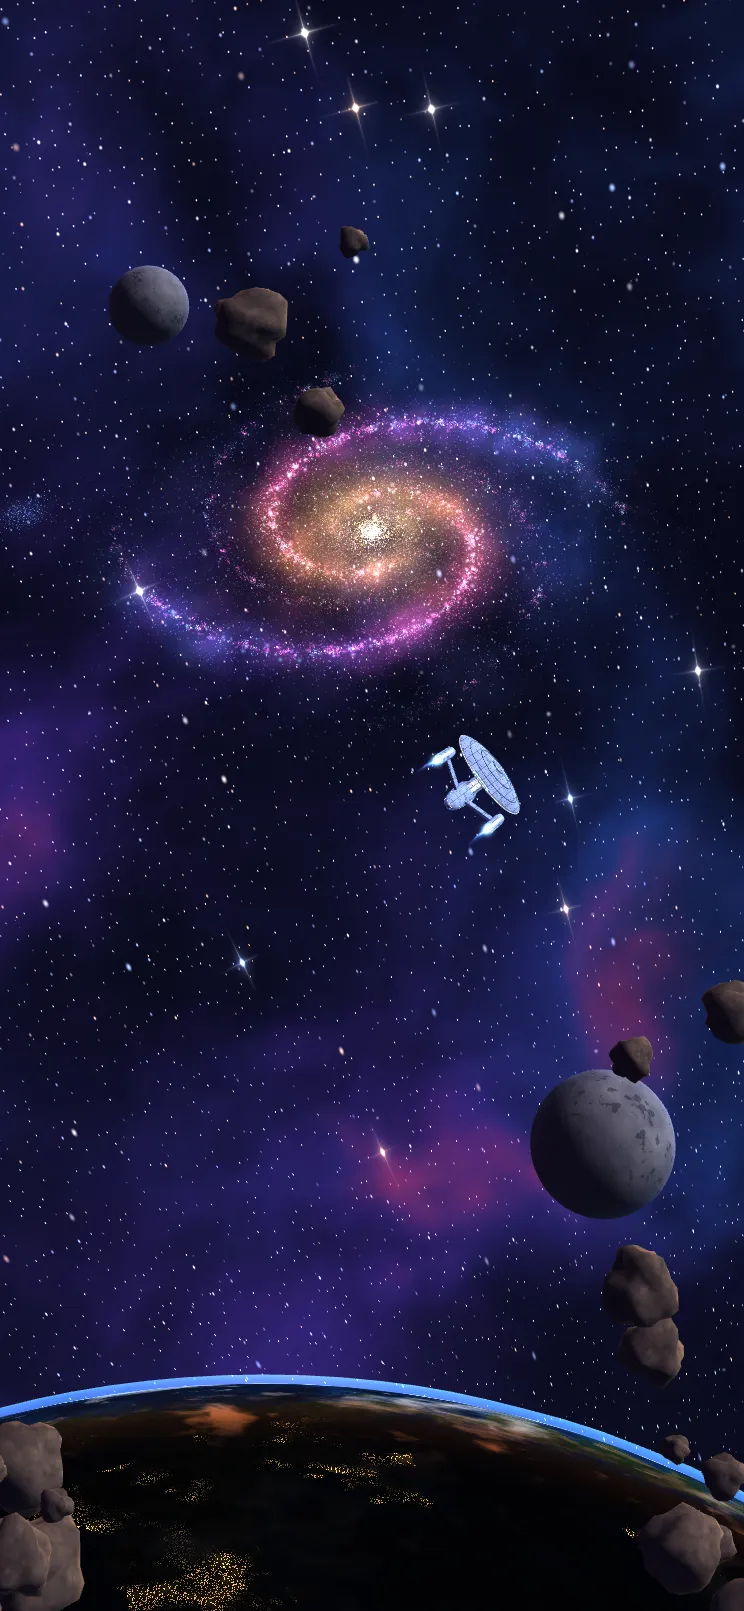
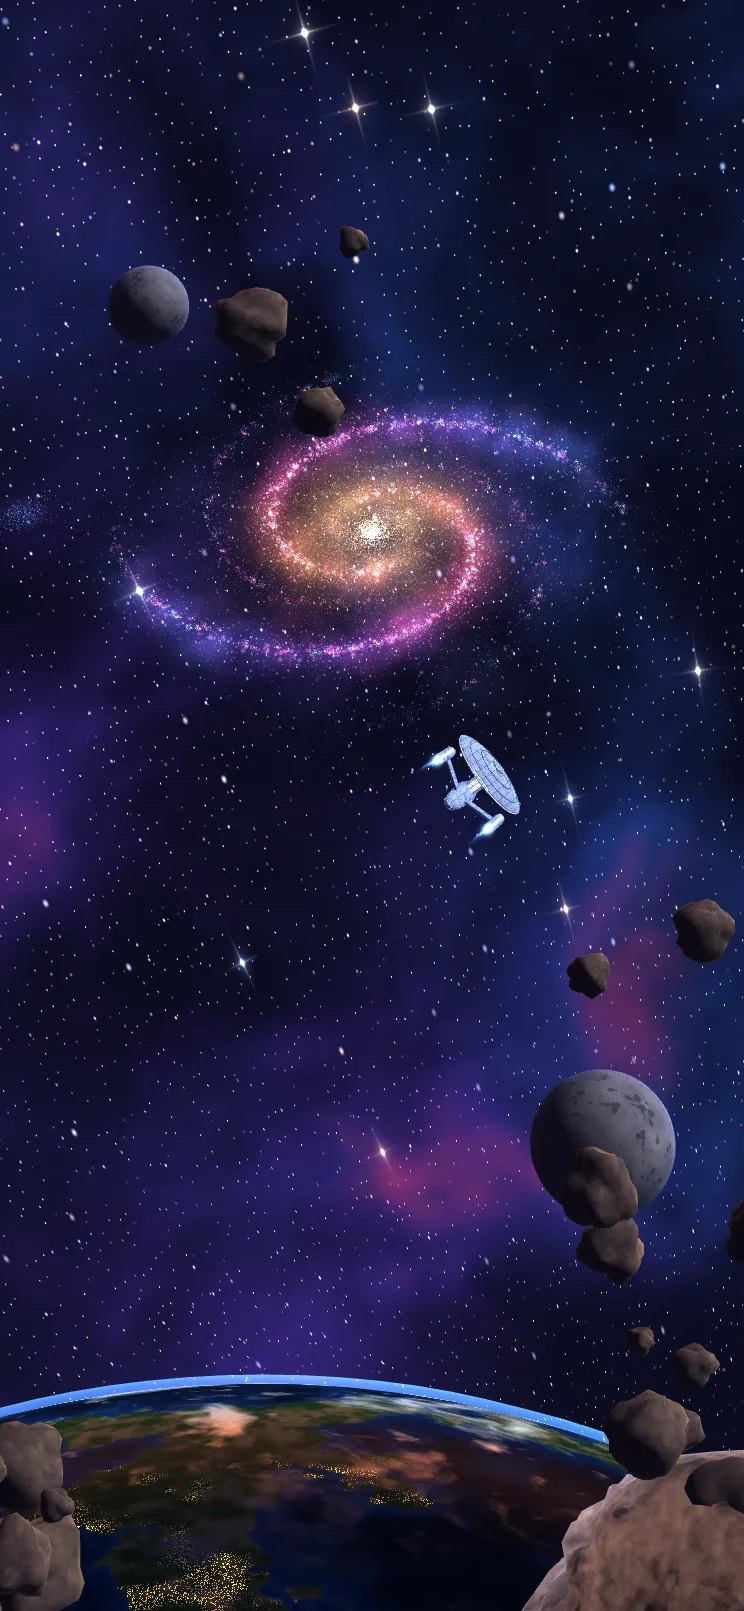
💄 style: Align the header, brighten the planet, add the corner rock and redo the About layout

diff --git a/src/scene/scenes/atlas/start.ts b/src/scene/scenes/atlas/start.ts
@@ -110,7 +110,7 @@ void main(){
     vec3 p = normalize(vO);
     vec3 nf = n;
     float g = clamp(dot(nf, v) / 0.55, 0.0, 1.0);
-    float ndlp = 0.3 - g * 0.75;                  // the light comes from beyond the horizon
+    float ndlp = 0.46 - g * 0.8;                  // the light comes from beyond the horizon (D-200: more of it lit)
     vec3 w = vec3(fbm3(p * 6.0 + 3.0), fbm3(p * 6.0 + 9.0), fbm3(p * 6.0 + 15.0)) - 0.5;
     float h = fbm3(p * 9.0 + w * 1.6 + 1.3) + 0.12 * (fbm3(p * 40.0 + w * 3.0) - 0.5) + 0.05 * (n3(p * 140.0) - 0.5);
     float land = smoothstep(0.545, 0.556, h);
@@ -124,11 +124,13 @@ void main(){
     vec3 cw = vec3(fbm3(cp * 7.0 + 21.0), fbm3(cp * 7.0 + 31.0), 0.0) - 0.5;
     float cloud = smoothstep(0.55, 0.8, fbm3(cp * 13.0 + cw * 2.2 + 40.0));
     cloud = clamp(cloud + smoothstep(0.62, 0.86, fbm3(cp * 45.0 + cw * 3.0 + 50.0)) * 0.5 * (1.0 - cloud), 0.0, 1.0);
-    float day = smoothstep(-0.04, 0.22, ndlp);
-    vec3 dayCol = mix(surface, vec3(0.9, 0.93, 0.98), cloud * 0.9) * (0.05 + 1.0 * day);  // a little galaxy light on the night side
+    float day = smoothstep(-0.06, 0.3, ndlp);
+    vec3 dayCol = mix(surface, vec3(0.9, 0.93, 0.98), cloud * 0.9) * (0.04 + 1.05 * day);
+    // D-200: the night side is not black: the galaxy's violet-blue light shows its clouds, seas and coasts
+    dayCol += mix(surface * 2.2, vec3(0.42, 0.45, 0.62), cloud * 0.8) * vec3(0.55, 0.6, 1.0) * 0.22 * (1.0 - day);
     // the sunset band along the terminator, strongest on the clouds
-    float twilight = exp(-pow((ndlp - 0.0) / 0.1, 2.0));
-    dayCol += vec3(1.0, 0.46, 0.18) * twilight * (0.1 + 0.85 * cloud) * 0.6;
+    float twilight = exp(-pow((ndlp - 0.0) / 0.13, 2.0));
+    dayCol += vec3(1.0, 0.46, 0.18) * twilight * (0.15 + 0.9 * cloud) * 0.85;
     // the night side: cities in warm points and soft glows, dimmed under cloud
     float night = smoothstep(0.0, -0.12, ndlp) * land * (1.0 - cloud * 0.85);
     float town = step(0.82, h3(floor(p * 1400.0))) * smoothstep(0.5, 0.75, fbm3(p * 30.0 + 60.0));
@@ -146,6 +148,22 @@ void main(){
     float crater = smoothstep(0.62, 0.7, fbm3(p * 9.0 + 4.0));
     vec3 grey = mix(vec3(0.32, 0.31, 0.34), vec3(0.6, 0.58, 0.6), rock) * (1.0 - crater * 0.35);
     col = grey * (0.04 + 1.0 * diff) + fill + vec3(0.5, 0.6, 1.0) * fres * wrap * 0.35;
+  } else if (uKind == 4) {
+    // D-200: the great rock in the corner: craggy, pitted, warm brown, its upper edges lit by the
+    // galaxy and rimmed in its violet-blue glow
+    float grain = fbm3(vO * 3.0);
+    float fine = fbm3(vO * 14.0);
+    float pits = smoothstep(0.62, 0.78, fbm3(vO * 7.0 + 5.0));
+    vec3 stone = mix(vec3(0.13, 0.095, 0.085), vec3(0.5, 0.36, 0.28), grain) * (0.65 + 0.7 * fine) * (1.0 - 0.6 * pits);
+    // craggy relief too fine for its mesh: the normal roughened at two scales
+    vec3 bump = vec3(fbm3(vO * 9.0), fbm3(vO * 9.0 + 3.0), fbm3(vO * 9.0 + 7.0)) - 0.5;
+    bump += (vec3(fbm3(vO * 26.0), fbm3(vO * 26.0 + 5.0), fbm3(vO * 26.0 + 9.0)) - 0.5) * 0.6;
+    vec3 nb = normalize(n + bump * 1.1);
+    vec3 Lc = normalize(vec3(-0.45, 0.75, 0.5));   // the galaxy is up and to its left
+    float lit = max(dot(nb, Lc), 0.0);
+    float rim = pow(1.0 - max(dot(n, v), 0.0), 3.0);
+    col = stone * (0.05 + 1.25 * pow(lit, 1.8)) + fill * 0.6;
+    col += mix(vec3(1.0, 0.72, 0.5), vec3(0.6, 0.7, 1.0), 0.5) * rim * (0.3 + 0.9 * clamp(dot(n, Lc) * 0.5 + 0.5, 0.0, 1.0)) * 0.6;
   } else if (uKind == 2) {
     float grain = fbm3(vO * 5.0);
     vec3 stone = mix(vec3(0.18, 0.14, 0.12), vec3(0.42, 0.33, 0.27), grain);
@@ -293,6 +311,31 @@ function rockGeometry(): BufferGeometry {
   return g;
 }
 
+/** D-200: the great rock in the lower right corner, from the mockup: a big, craggy, lumpy boulder. */
+function cragGeometry(): BufferGeometry {
+  let g: BufferGeometry = new IcosahedronGeometry(1, 7); // fine enough that no facet shows this close
+  g.deleteAttribute("normal");
+  g.deleteAttribute("uv");
+  g = mergeVertices(g);
+  const p = g.getAttribute("position");
+  const v = new Vector3();
+  const ridge = (x: number) => 1 - Math.abs(Math.sin(x));
+  for (let i = 0; i < p.count; i++) {
+    v.fromBufferAttribute(p, i);
+    // broad lumps, then sharp ridges and knobs at three scales, so its outline is jagged
+    let k = 1 + 0.22 * Math.sin(v.x * 2.1 + v.y * 1.3) * Math.cos(v.z * 1.7 - v.x * 0.6);
+    k += 0.12 * ridge(v.x * 4.3 + v.z * 2.9 + 1.1) * ridge(v.y * 3.7 - v.x * 2.2);
+    k += 0.09 * ridge(v.y * 9.1 + v.z * 7.3) * ridge(v.x * 6.7 - v.z * 5.1) + 0.05 * Math.sin(v.x * 17.0 + v.y * 13.0 - v.z * 11.0);
+    k += 0.03 * ridge(v.x * 31.0 - v.y * 27.0 + v.z * 23.0) + 0.015 * Math.sin(v.y * 53.0 + v.z * 47.0);
+    v.multiplyScalar(k);
+    v.x *= 1.5; // long, lying along the corner
+    p.setXYZ(i, v.x, v.y, v.z);
+  }
+  g.computeVertexNormals();
+  g.setAttribute("aPart", new BufferAttribute(new Float32Array(p.count), 1));
+  return g;
+}
+
 function sphere(segments: number): BufferGeometry {
   const g = new SphereGeometry(1, segments, Math.round(segments * 0.66));
   g.setAttribute("aPart", new BufferAttribute(new Float32Array(g.getAttribute("position").count), 1));
@@ -321,6 +364,7 @@ export class StartProps {
   private readonly halo: Mesh;
   private readonly moons: InstancedMesh;
   private readonly rocks: InstancedMesh;
+  private readonly crag: Mesh;
   private readonly ship: Mesh;
   /** The class on show and its engine nozzles (D-118): the visitor may switch it on the start page. */
   private shipClass: ShipClass;
@@ -366,6 +410,7 @@ export class StartProps {
     this.moons = new InstancedMesh(sphere(40), body(1), 2);
     this.rocks = new InstancedMesh(rockGeometry(), body(2), ROCKS);
     this.rocks.instanceMatrix.setUsage(DynamicDrawUsage);
+    this.crag = new Mesh(cragGeometry(), body(4));
     this.shipClass = getShip();
     const model = buildShip(this.shipClass);
     this.nozzles = model.nozzles;
@@ -396,7 +441,7 @@ export class StartProps {
     engineGeometry.setAttribute("aKind", new BufferAttribute(new Float32Array(kind), 1));
     this.engines = new Mesh(engineGeometry, engineMaterial);
 
-    for (const object of [this.planet, this.halo, this.moons, this.rocks, this.ship, this.engines] as Object3D[]) {
+    for (const object of [this.planet, this.halo, this.moons, this.rocks, this.crag, this.ship, this.engines] as Object3D[]) {
       object.frustumCulled = false;
       this.root.add(object);
     }
@@ -405,6 +450,7 @@ export class StartProps {
     this.halo.renderOrder = 21;
     this.moons.renderOrder = 20;
     this.rocks.renderOrder = 22;
+    this.crag.renderOrder = 22;
     this.ship.renderOrder = 23;
     this.engines.renderOrder = 24;
 
@@ -412,8 +458,9 @@ export class StartProps {
     for (let i = 0; i < ROCKS; i++) {
       // most in the lower left over the planet's edge and the lower right; a few higher, far off
       const zone = r();
-      const x = zone < 0.35 ? mix(-1.15, -0.75, r()) : zone < 0.8 ? mix(0.45, 1.15, r()) : mix(-0.6, 0.3, r());
-      const y = zone < 0.35 ? mix(-1.05, -0.7, r()) : zone < 0.8 ? mix(-1.05, -0.25, r()) : mix(0.45, 0.72, r());
+      // D-200: the lower right ones keep clear of the great rock in the corner
+      const x = zone < 0.35 ? mix(-1.15, -0.75, r()) : zone < 0.8 ? mix(0.3, 1.1, r()) : mix(-0.6, 0.3, r());
+      const y = zone < 0.35 ? mix(-1.05, -0.7, r()) : zone < 0.8 ? mix(-0.9, -0.15, r()) : mix(0.45, 0.72, r());
       const depth = mix(4, 18, r() * r());
       this.rockList.push({
         x,
@@ -497,6 +544,13 @@ export class StartProps {
       this.rocks.setMatrixAt(i, this.m.compose(this.v, this.q, this.s));
     }
     this.rocks.instanceMatrix.needsUpdate = true;
+
+    // D-200: the great rock in the lower right corner, close, turning very slowly; in flight it sweeps
+    // off past the corner
+    const cd = 6 * (1 - go * 0.6);
+    this.at(camera, (narrow ? 0.98 : 1.04) + go * 1.2, (narrow ? -1.05 : -1.06) - go * 1.0, cd, this.crag.position);
+    this.crag.scale.setScalar(this.size(camera, narrow ? 0.2 : 0.46, 6));
+    this.crag.rotation.set(0.5, -0.4 + t * 0.006, 0.35);
 
     // the ship: crossing toward the galaxy; in flight it speeds away into the distance
     const sd = 7 + go * go * 260;

diff --git a/src/components/screen/about.module.css b/src/components/screen/about.module.css
@@ -1,6 +1,9 @@
 /*
   About (D-184, D-185), with Islam and Space (D-179): two columns of words over the cosmic web, no
   panel behind them; on a phone one column that scrolls. Back stays in the corner.
+  D-200: a calmer layout: the web dimmed behind the words, the columns held to a comfortable width
+  well below the header, a faint rule between them, smaller headings, and each verse set off by a
+  thin gold line at its left.
 */
 
 .screen {
@@ -10,13 +13,22 @@
   overflow-y: auto; /* a page of words: it scrolls where it does not fit */
 }
 
+.dim {
+  position: fixed;
+  inset: 0;
+  pointer-events: none;
+  background:
+    radial-gradient(120% 90% at 50% 55%, oklch(0.11 0.035 275 / 0.72), oklch(0.11 0.035 275 / 0.45) 70%, oklch(0.11 0.035 275 / 0.3)),
+    linear-gradient(oklch(0.11 0.035 275 / 0.55), transparent 22%);
+}
+
 .words {
   position: relative;
   display: grid;
-  gap: clamp(28px, 5vh, 48px);
-  margin: 0 var(--gutter);
-  padding-top: clamp(104px, 14vh, 132px);
-  padding-bottom: clamp(96px, 14vh, 140px); /* room for Back */
+  gap: clamp(36px, 6vh, 56px);
+  max-width: 1180px;
+  margin: 0 auto;
+  padding: clamp(150px, 20vh, 196px) var(--gutter) clamp(110px, 16vh, 160px); /* clear of the header; room for Back */
   text-shadow:
     0 0 18px oklch(0.13 0.04 275 / 0.95),
     0 0 4px oklch(0.13 0.04 275 / 0.85);
@@ -25,15 +37,30 @@
 /* the laptop: About on the left, Islam and Space on the right */
 @media (min-width: 1000px) {
   .words {
-    grid-template-columns: minmax(0, 1fr) minmax(0, 1fr);
-    gap: clamp(48px, 6vw, 112px);
+    grid-template-columns: minmax(0, 0.9fr) minmax(0, 1.1fr);
+    gap: clamp(56px, 7vw, 120px);
     align-items: start;
+  }
+
+  /* a faint rule between the columns */
+  .words > section + section {
+    position: relative;
+  }
+
+  .words > section + section::before {
+    content: "";
+    position: absolute;
+    left: calc(clamp(56px, 7vw, 120px) / -2);
+    top: 6px;
+    bottom: 6px;
+    width: 1px;
+    background: linear-gradient(transparent, oklch(0.85 0.05 280 / 0.28) 15%, oklch(0.85 0.05 280 / 0.28) 85%, transparent);
   }
 }
 
 .words h1 {
-  font-size: clamp(2rem, 4.2vw, 3.6rem);
-  line-height: 1;
+  font-size: clamp(2rem, 3.4vw, 3rem);
+  line-height: 1.05;
 }
 
 .line {
@@ -44,10 +71,12 @@
 
 .about {
   display: grid;
-  gap: 0.8rem;
-  margin-top: clamp(16px, 3vh, 28px);
-  font-size: clamp(1rem, 1.15vw, 1.12rem);
-  line-height: 1.6;
+  gap: 1.1rem;
+  margin-top: clamp(20px, 3.4vh, 32px);
+  max-width: 34rem;
+  font-size: clamp(1rem, 1.12vw, 1.1rem);
+  line-height: 1.7;
+  color: oklch(0.93 0.015 270);
 }
 
 .about p {
@@ -59,16 +88,21 @@
 }
 
 .section {
-  font-size: clamp(2rem, 4.2vw, 3.6rem);
-  line-height: 1;
+  font-size: clamp(2rem, 3.4vw, 3rem);
+  line-height: 1.05;
 }
 
 .verses {
   list-style: none;
-  margin: clamp(16px, 3vh, 28px) 0 0;
+  margin: clamp(20px, 3.4vh, 32px) 0 0;
   padding: 0;
   display: grid;
-  gap: clamp(14px, 2.4vh, 22px);
+  gap: clamp(16px, 2.6vh, 24px);
+}
+
+.verses li {
+  padding-left: 18px;
+  border-left: 1.5px solid oklch(0.82 0.12 80 / 0.55);
 }
 
 .verses blockquote,
@@ -78,13 +112,14 @@
 
 .verses blockquote {
   font-style: italic;
-  font-size: clamp(1rem, 1.2vw, 1.14rem);
-  line-height: 1.45;
+  font-size: clamp(1rem, 1.12vw, 1.1rem);
+  line-height: 1.55;
+  color: oklch(0.94 0.015 270);
 }
 
 .cite {
   display: inline-block;
-  margin-top: 0.15rem;
+  margin-top: 0.35rem;
   font-size: 0.82rem;
   letter-spacing: 0.04em;
   color: var(--beacon);
@@ -102,6 +137,7 @@
   right: var(--gutter);
   bottom: clamp(28px, 7vh, 72px);
   z-index: 5;
+  background: oklch(0.15 0.045 280 / 0.88); /* D-200: words scrolling under it never show through */
 }
 
 .leave svg {

diff --git a/src/components/Dock.module.css b/src/components/Dock.module.css
@@ -8,11 +8,10 @@
   width: 540px;
   height: 98px;
   padding: 0 34px 4px;
-  /* D-123: a little smaller, and off the window's edge (it no longer hangs from it); D-199: smaller
-     again (0.84 to 0.7), its labels and icons drawn larger inside so they still read */
-  margin-top: -10px;
-  scale: 0.7;
-  transform-origin: top center;
+  /* D-123: a little smaller, and off the window's edge; D-199: smaller again; D-200: sized with zoom,
+     not scale, so its layout box is its drawn size and it centres on the same line as the wordmark,
+     search and Sound (a scaled box kept its full height and sat high) */
+  zoom: 0.72;
   isolation: isolate;
 }
 
@@ -41,12 +40,12 @@
   position: relative;
   display: grid;
   justify-items: center;
-  gap: 8px;
+  gap: 7px;
   min-width: 112px;
   padding: 2px 14px;
   border: 0;
   background: none;
-  font: 400 17px / 1 var(--font-display);
+  font: 400 15.5px / 1 var(--font-display);
   color: oklch(0.95 0.01 270);
   text-decoration: none; /* About is a link (D-184) */
   cursor: default;
@@ -63,8 +62,9 @@
 }
 
 .item svg {
-  width: 31px;
-  height: 31px;
+  /* D-200: the icons lead, larger than the labels */
+  width: 40px;
+  height: 40px;
   stroke: url(#dock-ink);
   stroke-width: 1.4;
   color: oklch(0.78 0.13 285);
@@ -109,8 +109,7 @@
   top: calc(100% + 10px);
   left: 50%;
   translate: -50% 0;
-  scale: 1.2; /* D-199: the panel keeps its size (0.7 x 1.2 = 0.84, as before) */
-  transform-origin: top center;
+  zoom: 1.17; /* D-199, D-200: the panel keeps its size (0.72 x 1.17 = 0.84, as before) */
   display: grid;
   grid-template-columns: repeat(5, max-content); /* D-174: the Starbase has its own group */
   max-height: calc(100vh - 150px);

diff --git a/src/components/screen/AboutView.tsx b/src/components/screen/AboutView.tsx
@@ -28,6 +28,8 @@ export function AboutView({ versesTitle, versesLine, verses }: { versesTitle: st
   return (
     <div className={styles.screen}>
       <SceneSlot id="atlas" mode="atlas" posters={POSTERS} opening={() => ({ zoom: WEB })} />
+      {/* D-200: a soft dark wash over the web behind the words, so they read */}
+      <div className={styles.dim} aria-hidden="true" />
       <div className={styles.words}>
         <section>
           <h1>About</h1>
@@ -37,12 +39,12 @@ export function AboutView({ versesTitle, versesLine, verses }: { versesTitle: st
               Cosmic Atlas is a journey you click through, from a spiral galaxy out to the edge of everything. Every scene is drawn live in your browser,
               and every picture is our own illustration, never a photograph.
             </p>
-            <p>Each view has a name and one line, and every line is checked against a real source.</p>
-            <p>Click a light to fly into it, press Zoom Out to pull back, and drag to look around.</p>
+            {/* D-200: the last three sentences are one paragraph */}
             <p>
-              Cosmic Atlas is open source.{" "}
+              Each view has a name and one line, and every line is checked against a real source. Click a light to fly into it, press Zoom Out to pull
+              back, and drag to look around. Cosmic Atlas is open source:{" "}
               <a href={REPO} target="_blank" rel="noopener noreferrer">
-                See the code on GitHub
+                see the code on GitHub
               </a>
               .
             </p>

diff --git a/src/components/SiteHeader.module.css b/src/components/SiteHeader.module.css
@@ -37,7 +37,7 @@
 
 .bar {
   display: flex;
-  align-self: start;
+  align-self: center; /* D-200: on the same line as the wordmark, search and Sound */
 }
 
 /* ---- search and Sound ---- */

diff --git a/context/DECISIONS.md b/context/DECISIONS.md
@@ -296,3 +296,4 @@ The owner clicked through S1: "Much better", then asked for the changes below, w
 | D-197 | **A hurtling comet and a nebula with depth (owner, 2026-11-24).** (1) **A Comet:** a drag no longer swings the star and tails round (it shifts the view a little); instead the comet hurtles toward its star: the nucleus tumbles on two axes, its outline turning with it; the stars stream past the other way, each drawn out slightly (four samples along the motion); close dust grains flash past as streaks at two speeds; the gas tail's streamers flow twice as fast. (2) **Nebula:** a near cliff of billowing gas and dust across the bottom of the frame (as in Carina's "cosmic cliffs"), its crest lit rose-gold by the cluster, billows inside it catching the light on their tops, steam rising off it, moving most in a drag; the cluster's light is shadowed by the dust between each point and the heart (twelve samples toward the heart) and streams out in faint rays where it gets through; the near dust at the edges is darker and drifts slowly. | The owner: for the comet "I should not be able to rotate it instead make it look like it is hurling across space (like rotate the rock part)"; "the nebula still feels flat". | Rays alone (they only darkened the edges); a continuous dolly through the nebula (it would break the fixed composition and the copy's calm corner). |
 | D-198 | **Softer, violet dust lanes in the spiral galaxy (owner, 2026-11-24).** The dark lanes on the arms' inner edges stay (real spirals have them), but the dust layer's strength drops from 0.1 to 0.065 and the fine dust's from 0.16 to 0.1, and both now take more green than red or blue from what is behind, so they read as a deep violet shadow instead of brown-black streaks. | The owner asked why there was "black stuff" in the galaxy; told they are dust lanes, they chose to soften them. | Removing them (the galaxy reads flatter). |
 | D-199 | **The start page refined against the mockup (owner, 2026-11-24).** (1) **Header:** the dock is drawn at 0.7 (was 0.84) with its labels and icons drawn larger inside so they still read, and its panels counter-scaled to keep their size (and made more opaque); search 40 px tall (was 48), Sound 40 px (46), the wordmark 16 px (19) with a 46 px mark (56), the header's padding 18 px (22). (2) **One mark:** a new spiral galaxy (two tapered arms in ice blue to violet to orchid round a warm white core, a small star beside it) is both the header's emblem and `src/app/icon.svg` (on a dark tile), replacing the old stroked spiral and the gold ring icon. (3) **Galaxy:** the start view stands closer (`START_DESK` d 4.3 to 3.3, sx 0.3, sy 0.15), so the galaxy fills the upper right. (4) **Planet:** larger and lower (radius 3.05 to 3.4, y -3.3 to -3.78, so its horizon sits under the button); seen low across its horizon, only a thin cap of it shows, every point at a grazing angle, so the old limb term washed its whole face blue (found by drawing its normals); its light and air are now measured across that cap: a lit band and an orange sunset band along the horizon, night below with warm city lights and a little galaxy light, finer ragged coasts and swirling cloud, a thin bright line of air, and a thinner shell of glow (1.045 to 1.008). (5) **The words:** set higher, on a soft pool of dark so they sit on calm sky; a short glowing rule leads the eyebrow, whose dots glow; the headline larger and a touch heavier, its gradient words drifting slowly like passing light, with a faint glow; the line brighter; the four parts rise in one after another (none of it under reduced motion). | The owner: "the top menu feels a bit big"; "the logo and favicon should be the same"; "the galaxy should be bigger in the homepage and the earth needs to be improved"; the text "needs something which I can't explain"; refine against `start-page-mockup.png`. | The mockup's flat pill menu (the flared dock is the owner's earlier choice, D-116); a featured-topics panel (the mockup's, but cards of telescope-like pictures go against the imagery rule). |
+| D-200 | **The start page and About, polished (owner, 2026-11-25).** (1) **Header alignment:** the dock was shrunk with `scale`, which kept its full-size layout box, so with `align-self: start` it sat higher than the wordmark, search and Sound; it is now sized with `zoom: 0.72` (its panels `zoom: 1.17`, keeping their size) and centred on the same line. (2) **Menu icons** 40 px before zoom (were 31) over 15.5 px labels (were 17): the icons lead. (3) **The planet** is lit further across its cap (more of it in daylight), and its night side carries the galaxy's violet-blue light, so clouds, seas and coasts show instead of black; the sunset band is wider and warmer. (4) **A great rock** in the lower right corner, after the mockup: a long, craggy boulder (a finely divided, ridged mesh, its relief roughened further in the shader), warm brown, lit from the galaxy above and to its left with a violet-blue rim, turning very slowly; in the flight in it sweeps off past the corner; the small rocks there keep clear of it. (5) **About:** the cosmic web dimmed behind the words; the columns held to 1180 px and set well below the header; a faint rule between them; headings smaller; each verse set off by a thin gold line at its left; the last three sentences of About one paragraph; Back given a solid fill so scrolled words never show through it. | The owner: "something about the alignment feels wrong" (the header); "why is the earth so dark"; About "is hard to read and it's too close to the top elements … create a better layout", "combine the last 3 sentences"; "make the icons bigger than the text"; add the mockup's rock "to the bottom right"; "Polish! Polish! Polish!". | Glass cards behind About's columns (glass panels are kept to the start page and header, DESIGN_SPEC 2). |

diff --git a/context/PROGRESS_TRACKER.md b/context/PROGRESS_TRACKER.md
@@ -89,6 +89,7 @@ Limits: draw calls on `low` under 30, scene chunks under 40 KB. Tests that need 
 - **2026-11-24 (scene refinement), D-197:** A Comet hurtles: the nucleus tumbles, stars stream past drawn out by the speed, close dust grains flash by, the gas tail flows faster; a drag only shifts the view. Nebula has depth: a near cliff of billowing gas across the bottom with a lit crest and steam, the cluster's light casting shadows and rays through the cloud, darker drifting near dust at the edges. **Checked:** `npm run check`, `npm run build`, `npm run shots` for both, posters re-rendered.
 - **2026-11-24 (scene refinement), D-198:** The spiral galaxy's dust lanes softened and tinted: about a third fainter, a deep violet shadow instead of brown-black. **Checked:** `npm run check`, `npm run build`, `npm run shots` for the galaxy and its close view, the start poster re-rendered.
 - **2026-11-24 (start page), D-199:** A slimmer header (dock 0.84 to 0.7, smaller search, Sound and wordmark), one new spiral-galaxy mark for both the header and the browser tab, the galaxy larger on the start page, the planet redrawn (night side with city lights, a lit horizon and sunset band, finer land and cloud, a thin line of air), and the headline block refined (higher, a soft dark pool behind it, a glowing rule, larger headline whose gradient drifts, words rising in one by one, brighter line). **Checked:** `npm run check`, `npm run build`, start-page stills on laptop and phone, the dock's Places panel opened. On 2026-11-25 the full `npm run shots` passed (342 shots, no failures) and the start page's poster and share image were re-rendered.
+- **2026-11-25 (start page and About), D-200:** The header's three parts on one line (the dock sized with zoom, so it no longer sits high), menu icons larger than their labels, the planet's night side lit by the galaxy and more of it sunlit, a great craggy rock in the lower right corner, and About redone (the web dimmed behind the words, columns held to a comfortable width well below the header, a faint rule between them, gold lines by the verses, the last three sentences one paragraph, a solid Back). **Checked:** `npm run check`, `npm run build`, `npm run shots` for the start page and About (laptop, phone, reduced motion), the start and About posters re-rendered.
 - **2026-11-24 (new place, probes), D-189:** The Last Civilization (a hibernating civilization round a dim white dwarf, in A Quasar Galaxy, with its own loop) and a redrawn Von Neumann Probes (a binary tree of self-copying probes eating a belt). 46 places. **Checked:** `npm run check`, `npm run build`, stills of both (awake and asleep; mid-tree and leaving) on laptop and phone, the new hotspot's place in the Quasar Galaxy, posters and share images rendered.
 - **2026-11-24 (small fixes), D-188:** Larger play icon; a drag turns every universe in the Multiverse; glass tooltips (`data-tip`) on the video and Sound buttons; the web and supervoid swap music. **Checked:** `npm run check`; live in Chrome: the Multiverse before and after a drag, both tooltips on hover.
 - **2026-11-24 (the ending), D-187:** Zoom Out past the Omniverse is now a cinematic ending: fade to black, the two lines rise out of a blur one after the other, then Return. The music key is read under `Music` or `MUSIC_KEY`. **Checked:** `npm run check`; live in Chrome: the ending at several moments, Return closes it, the Omniverse loop loads with the key under `MUSIC_KEY`.
